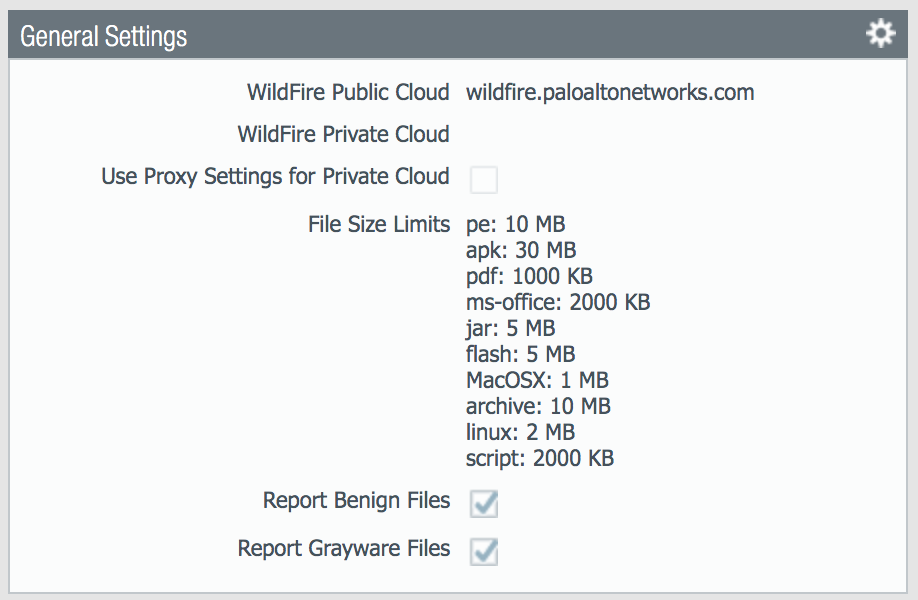
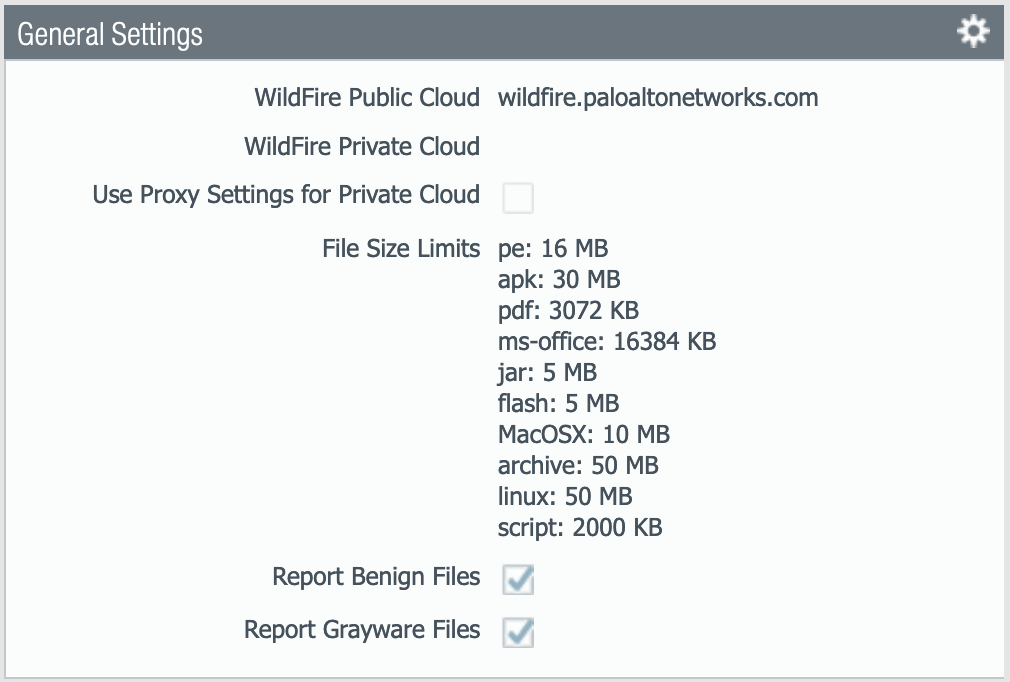
docs clean up inc WF file size limits image

Changed region(s): [[0.0, 0.0, 1.0, 1.0]]

diff --git a/docs/conf.py b/docs/conf.py
@@ -1,10 +1,8 @@
-# -*- coding: utf-8 -*-
-#
 # Configuration file for the Sphinx documentation builder.
 #
-# This file does only contain a selection of the most common options. For a
-# full list see the documentation:
-# http://www.sphinx-doc.org/en/master/config
+# This file only contains a selection of the most common options. For a full
+# list see the documentation:
+# https://www.sphinx-doc.org/en/master/usage/configuration.html
 
 # -- Path setup --------------------------------------------------------------
 
@@ -19,14 +17,12 @@
 
 # -- Project information -----------------------------------------------------
 
-project = u'IronSkillet'
-copyright = u'2019, Scott Shoaf'
-author = u'Scott Shoaf'
+project = 'IronSkillet'
+copyright = '2020, Scott Shoaf'
+author = 'Scott Shoaf'
 
-# The short X.Y version
-version = u''
 # The full version, including alpha/beta/rc tags
-release = u'1.0.6'
+release = '0.0.5'
 
 
 # -- General configuration ---------------------------------------------------

diff --git a/docs/players.rst b/docs/players.rst
@@ -1,0 +1,39 @@
+.. _ironskillet_players:
+
+IronSkillet Players
+===================
+
+IronSkillet configuration files can be rendered and loaded with various apps and tools.
+
+panHandler
+----------
+
+panHandler is a multi-skillet player easily installed as a Docker container. This recommended application supports
+configuration and validation skillets provided as part of IronSkillet.
+
+.. _Install and Get Started with panHandler: https://live.paloaltonetworks.com/t5/Skillet-Tools/Install-and-Get-Started-With-Panhandler/ta-p/307916
+
+Visit the Skillet District in the Live Community to `Install and Get Started with panHandler`_
+
+
+Expedition
+----------
+
+Expedition (the Migration Tool) allows user not only migrate configurations from other vendors but also integreates
+best practice capabilities such as IronSkillet and the Best Practice Assessment.
+
+.. _Expedition site: https://live.paloaltonetworks.com/t5/Expedition-Migration-Tool/ct-p/migration_tool
+
+Visit the `Expedition site`_ in Live for more information including the Installer.
+
+
+Customer Support Portal
+-----------------------
+
+.. _Customer Support Portal: https://support.paloaltonetworks.com
+
+The Palo Alto Networks `Customer Support Portal`_ allows users to create a loadable XML Day One configuration. Users
+can generate the Day One configuration when registering a NGFW or Panorama. The IronSkillet configuration is also
+accessible using the portal Tools menu.
+
+

diff --git a/docs/release_history.rst b/docs/release_history.rst
@@ -14,6 +14,15 @@ Includes:
 
 Template content updates are high level. Details can be found in the template guides.
 
+0.0.2
+^^^^^
+Released April 28, 2020
+
+    + Update WF file size limits to match the BPA
+    + validation updates including grayware check and WF file size limits
+    + metadata file updates: variable clean up with toggle_hint and help_text
+    + Panorama not shared skillet file reference error
+
 0.0.1
 ^^^^^
 Released January 22, 2020
@@ -26,6 +35,15 @@ Released January 22, 2020
 ----------------------------
 
 Template content updates are high level. Details can be found in the template guides.
+
+0.0.5
+^^^^^
+Released April 28, 2020
+
+    + Update WF file size limits to match the BPA
+    + validation updates including grayware check and WF file size limits
+    + metadata file updates: variable clean up with toggle_hint and help_text
+    + Panorama not shared skillet file reference error
 
 0.0.4
 ^^^^^
@@ -234,6 +252,14 @@ Documentation Revisions
 -----------------------
 
 Documentation revisions outside of template-tooling updates. These are documented by date, not verison.
+
+April 29, 2020
+^^^^^^^^^^^^^^
+
+    + update WF file size limit image in visual guide
+    + create sidebar menu sections
+    + add content for skillet players
+
 
 Janurary 22, 2020
 ^^^^^^^^^^^^^^^^^

diff --git a/docs/overview.rst b/docs/overview.rst
@@ -66,17 +66,23 @@ There are also validation skillets for analysis of existing configurations
 Validation insights currently require applications such as panHandler (https://panhandler.readthedocs.io) for
 analysis and results output.
 
+Quick start using IronSkillet players
+^^^^^^^^^^^^^^^^^^^^^^^^^^^^^^^^^^^^^
+
+User can opt to use one of the :ref:`ironskillet_players` to render and load configurations. These apps and tools
+are a great starting point to begin using IronSkillet.
+
+
 Quick start using loadable configurations
 ^^^^^^^^^^^^^^^^^^^^^^^^^^^^^^^^^^^^^^^^^
 
-The repo contains a set of ready-to-go loadable configurations that use iron-skillet placeholder values.
+The repo contains a set of ready-to-go loadable configurations that use IronSkillet placeholder values.
 Formats include both xml and set commands.
 
 The xml file can be imported and loaded easily to Panorama or a firewall. The set command model requires 'copy-and-paste'
 from the CLI.
 
 More information for loading and editing these configurations can be found at: :ref:`using_default_configs`.
-
 
 Excel set command spreadsheet
 ^^^^^^^^^^^^^^^^^^^^^^^^^^^^^

diff --git a/docs/index.rst b/docs/index.rst
@@ -1,5 +1,5 @@
 .. IronSkillet documentation master file, created by
-   sphinx-quickstart on Mon Jul 29 10:07:37 2019.
+   sphinx-quickstart on Wed Apr 29 09:22:08 2020.
    You can adapt this file completely to your liking, but it should at least
    contain the root `toctree` directive.
 
@@ -8,19 +8,30 @@ Welcome to Iron Skillet template documentation!
 
 .. toctree::
    :maxdepth: 1
-   :caption: Contents:
+   :caption: Getting Started
 
    overview
    requirements_caveats
-   panos_template_guide
-   panorama_template_guide
    viz_guide_panos
    validations_panos
+   players
    using_default_templates
+
+.. toctree::
+   :maxdepth: 1
+   :caption: Beyond the Basics
+
+   panos_template_guide
+   panorama_template_guide
    using_the_spreadsheet
    creating_loadable_configs
    loading_the_template
    vm50_reduction
+
+.. toctree::
+   :maxdepth: 1
+   :caption: Reference and Release History
+
    snippets_common_or_device
    release_variance
    release_history

diff --git a/docs/release_variance.rst b/docs/release_variance.rst
@@ -1,6 +1,6 @@
 
-New PAN-OS Version  Updates
-===========================
+New PAN-OS Version Updates
+==========================
 
 
 8.1 Update Items
